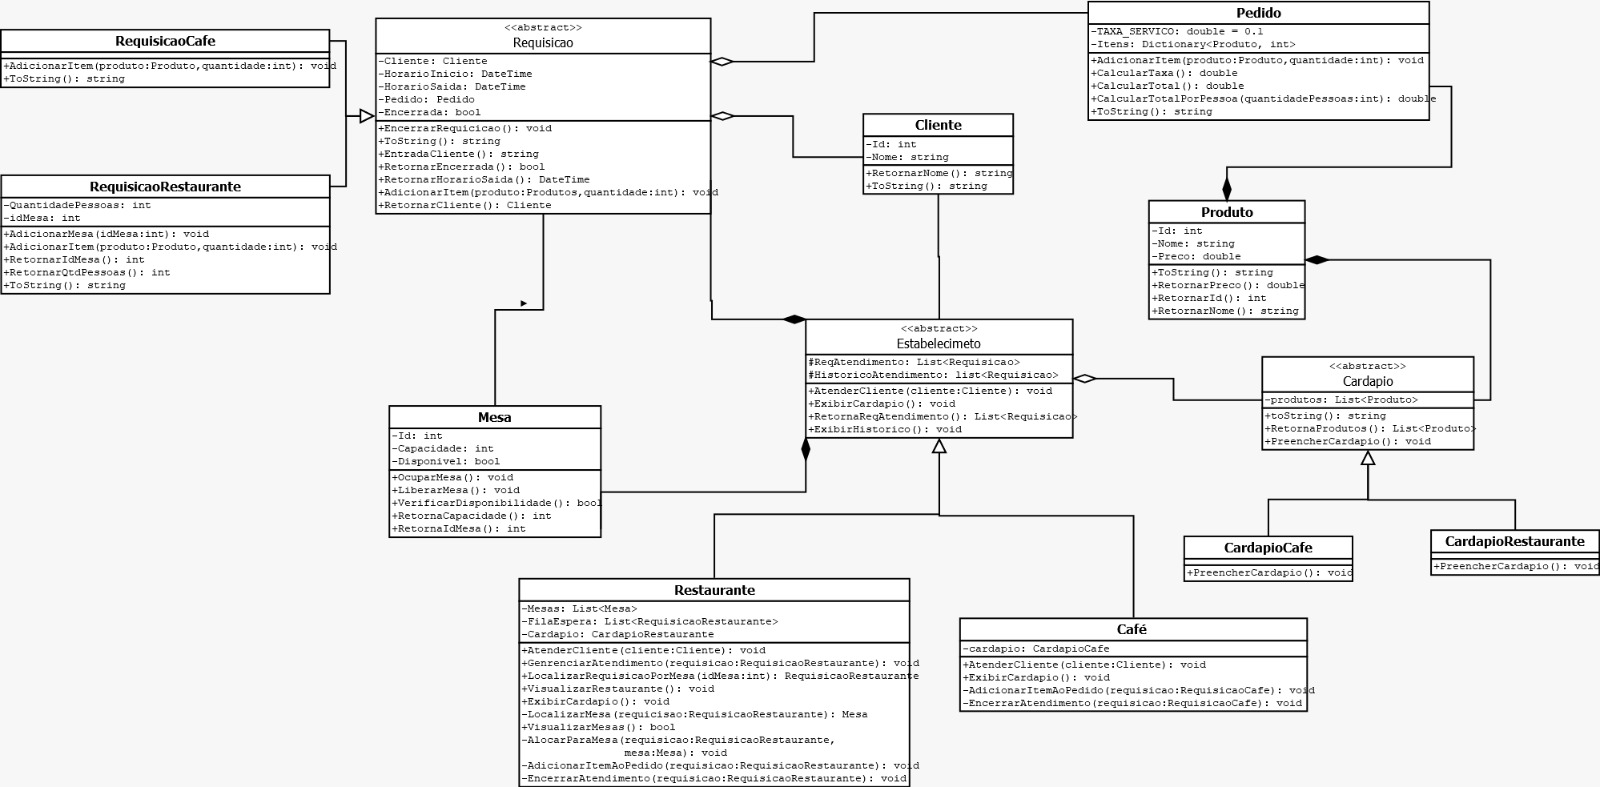
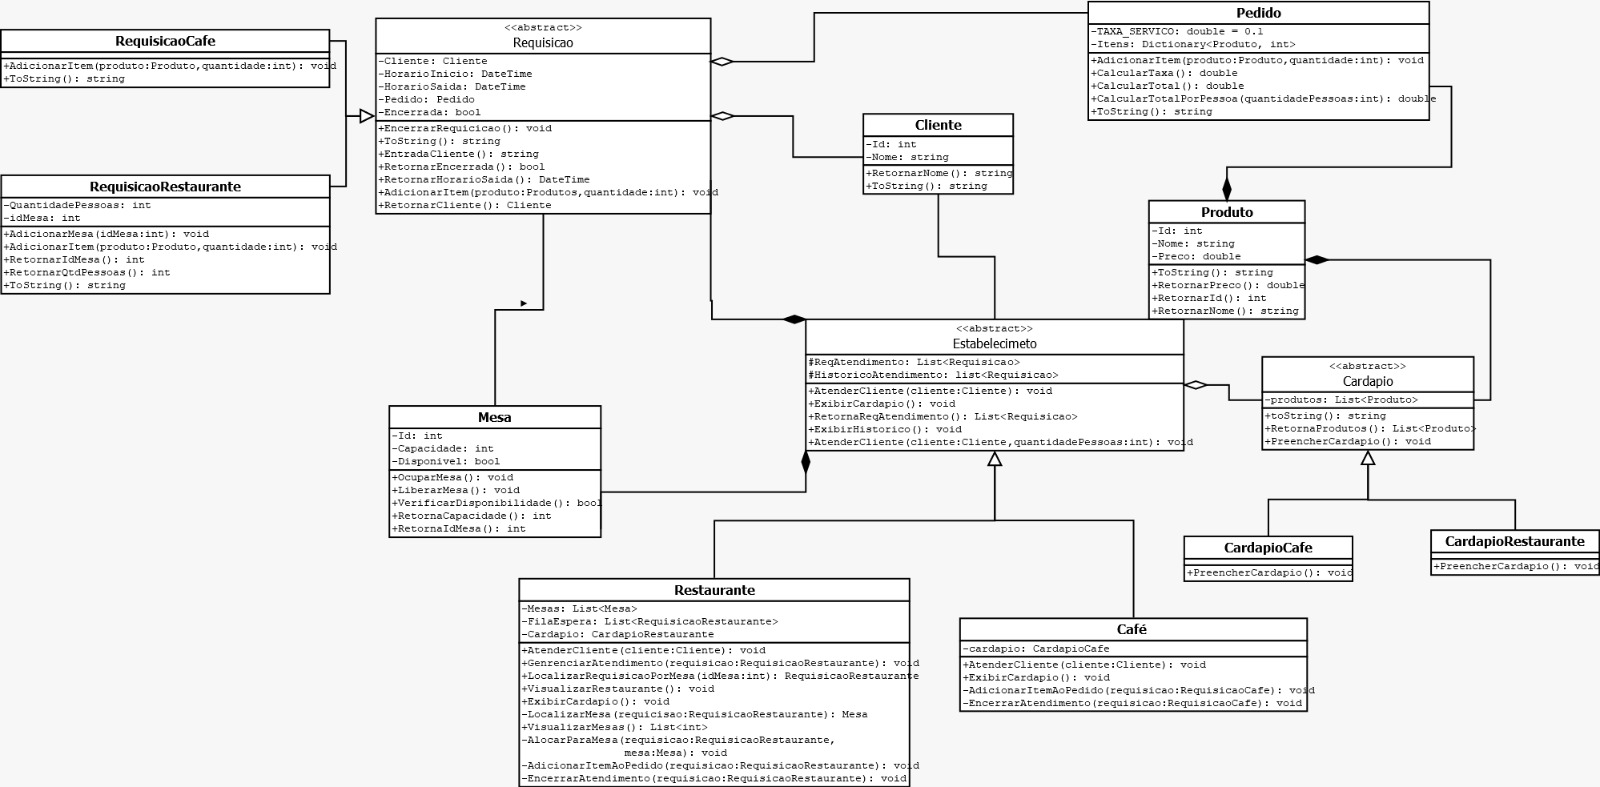
tratamento de erros e uml final

diff --git a/codigo/Program.cs b/codigo/Program.cs
@@ -54,43 +54,83 @@ namespace runcode_poo.codigo
                                 switch (opcaoRestaurante)
                                 {
                                     case (int)OpcaoMenuRestaurante.AtenderCliente:
+
                                         Console.Write("Digite o nome do cliente: ");
                                         string nomeCliente = Console.ReadLine();
                                         Cliente novoCliente = new Cliente(clienteId++, nomeCliente);
-                                        try
-                                        {
-                                            restaurante.AtenderCliente(novoCliente);
-                                        }
-                                        catch (Exception ex)
-                                        {
-                                            Console.WriteLine($"Erro ao atender cliente: {ex.Message}");
-                                        }
-                                        break;
-                                    case (int)OpcaoMenuRestaurante.AtenderMesa:
-                                        bool temMesas = restaurante.VisualizarMesas();
-                                        if (temMesas)
+
+                                        int quantidadePessoas = 0;
+                                        bool quantidadeValida = false;
+                                        while (!quantidadeValida)
                                         {
                                             try
                                             {
-                                                Console.WriteLine("Digite o ID da mesa para atendimento:");
-                                                int idMesa = int.Parse(Console.ReadLine());
-                                                RequisicaoRestaurante requisicao = restaurante.LocalizarRequisicaoPorMesa(idMesa);
-                                                if (requisicao != null)
+                                                Console.Write("Quantidade de pessoas para a mesa: ");
+                                                quantidadePessoas = int.Parse(Console.ReadLine());
+
+                                                if (quantidadePessoas > 8 || quantidadePessoas <= 0)
                                                 {
-                                                    restaurante.GerenciarAtendimento(requisicao);
+                                                    throw new ArgumentOutOfRangeException(null, "A quantidade de pessoas deve ser entre 1 e 8.");
                                                 }
-                                                else
-                                                {
-                                                    Console.WriteLine("Mesa não encontrada ou não possui atendimento em andamento.");
-                                                }
+                                                quantidadeValida = true;
+                                            }
+                                            catch (ArgumentOutOfRangeException ex)
+                                            {
+                                                Console.ForegroundColor = ConsoleColor.Red;
+                                                Console.WriteLine($"Erro: {ex.Message}");
+                                                Console.ResetColor();
                                             }
                                             catch (FormatException)
                                             {
-                                                Console.WriteLine("Por favor, digite um número válido para o ID da mesa.");
-                                            }
-                                            catch (Exception ex)
+                                                Console.WriteLine("Formato inválido. Por favor, insira um número inteiro.");
+                                            }               
+                                        }
+                                        restaurante.AtenderCliente(novoCliente, quantidadePessoas);
+
+                                        break;
+                                    case (int)OpcaoMenuRestaurante.AtenderMesa:
+                                        List<int> mesasEmAtendimento = restaurante.VisualizarMesas();
+                                        if (mesasEmAtendimento.Count > 0)
+                                        {
+                                            while (true)
                                             {
-                                                Console.WriteLine($"Ocorreu um erro: {ex.Message}");
+                                                try
+                                                {
+                                                    Console.WriteLine("Digite o ID da mesa para atendimento (ou 0 para sair):");
+                                                    int idMesa = int.Parse(Console.ReadLine());
+
+                                                    if (idMesa == 0)
+                                                    {
+                                                        Console.WriteLine("Saindo do atendimento de mesas.");
+                                                        break;
+                                                    }
+
+                                                    if (!mesasEmAtendimento.Contains(idMesa))
+                                                    {
+                                                        throw new MesaNaoEmAtendimentoException("Mesa não encontrada ou não possui atendimento em andamento.");
+                                                    }
+
+                                                    RequisicaoRestaurante requisicao = restaurante.LocalizarRequisicaoPorMesa(idMesa);
+                                                    if (requisicao != null)
+                                                    {
+                                                        restaurante.GerenciarAtendimento(requisicao);
+                                                        break;
+                                                    }
+                                                    else
+                                                    {
+                                                        Console.WriteLine("Essa mesa não possui atendimento em andamento.");
+                                                    }
+                                                }
+                                                catch (MesaNaoEmAtendimentoException ex)
+                                                {
+                                                    Console.ForegroundColor = ConsoleColor.Red;
+                                                    Console.WriteLine($"Erro: {ex.Message}");
+                                                    Console.ResetColor();
+                                                }
+                                                catch (FormatException)
+                                                {
+                                                    Console.WriteLine("Por favor, digite um número válido para o ID da mesa.");
+                                                }
                                             }
                                         }
                                         break;
@@ -111,6 +151,7 @@ namespace runcode_poo.codigo
                             }
                             break;
                         case (int)OpcaoGeral.Cafe:
+
                             bool sairMenuCafe = false;
                             while (!sairMenuCafe)
                             {
@@ -134,21 +175,17 @@ namespace runcode_poo.codigo
                                         Console.Write("Digite o nome do cliente:");
                                         string nomeClienteCafe = Console.ReadLine();
                                         Cliente novoClienteCafe = new Cliente(clienteId++, nomeClienteCafe);
-                                        try
-                                        {
-                                            cafe.AtenderCliente(novoClienteCafe);
-                                        }
-                                        catch (Exception ex)
-                                        {
-                                            Console.WriteLine($"Erro ao atender cliente: {ex.Message}");
-                                        }
+                                        cafe.AtenderCliente(novoClienteCafe);                                     
                                         break;
+
                                     case (int)OpcaoMenuCafe.ExibirHistorico:
                                         cafe.ExibirHistorico();
                                         break;
+
                                     case (int)OpcaoMenuCafe.Voltar:
                                         sairMenuCafe = true;
                                         break;
+
                                     default:
                                         Console.WriteLine("Opção inválida.");
                                         break;
@@ -164,11 +201,7 @@ namespace runcode_poo.codigo
                 }
                 catch (FormatException)
                 {
-                    Console.WriteLine("Por favor, digite um número válido para a opção.");
-                }
-                catch (Exception ex)
-                {
-                    Console.WriteLine($"Ocorreu um erro: {ex.Message}");
+                    Console.WriteLine("Por favor, digite um número de 1 a 3.");
                 }
             }
         }
@@ -190,5 +223,11 @@ namespace runcode_poo.codigo
             Console.WriteLine();
             Console.ResetColor();
         }
+
+        public class MesaNaoEmAtendimentoException : Exception
+        {
+            public MesaNaoEmAtendimentoException(string message) : base(message) { }
+        }
+
     }
 }

diff --git a/codigo/Restaurante.cs b/codigo/Restaurante.cs
@@ -79,11 +79,12 @@ namespace runcode_poo.codigo
         /// Exibe as mesas que estão em atendimento.
         /// </summary>
         /// <returns>True se houver mesas em atendimento, caso contrário, false.</returns>
-        public bool VisualizarMesas()
+        public List<int> VisualizarMesas()
         {
             Console.WriteLine("============ MESAS EM ATENDIMENTO ============");
             Console.WriteLine("==============================================");
             bool temMesasEmAtendimento = false;
+            List<int> mesasEmAtendimento = new List<int>();
 
             if (this.Mesas.Count > 0)
             {
@@ -95,6 +96,7 @@ namespace runcode_poo.codigo
                     if (!disponibilidade)
                     {
                         temMesasEmAtendimento = true;
+                        mesasEmAtendimento.Add(idMesa);
                         Console.Write($"Mesa {idMesa} - ");
                         Console.ForegroundColor = ConsoleColor.Red;
                         Console.Write("Em andamento");
@@ -109,13 +111,13 @@ namespace runcode_poo.codigo
                 Console.WriteLine("Sem mesas para atendimento!");
                 Console.WriteLine("Pressione qualquer tecla para voltar ao menu...");
                 Console.ReadKey();
-                return false;
             }
 
             Console.WriteLine("==============================================");
             Console.WriteLine();
-            return true;
+            return mesasEmAtendimento;
         }
+
 
         /// <summary>
         /// Exibe as mesas e a fila de espera do restaurante.
@@ -176,20 +178,8 @@ namespace runcode_poo.codigo
         /// Atende um cliente específico.
         /// </summary>
         /// <param name="cliente">O cliente a ser atendido.</param>
-        public override void AtenderCliente(Cliente cliente)
+        public override void AtenderCliente(Cliente cliente, int quantidadePessoas)
         {
-            int quantidadePessoas;
-            do
-            {
-                Console.Write("Quantidade de pessoas para a mesa: ");
-                quantidadePessoas = int.Parse(Console.ReadLine());
-                if (quantidadePessoas > 8)
-                {
-                    Console.WriteLine($"Não existem mesas com capacidade para {quantidadePessoas} pessoas. Por favor, insira um valor até 8.");
-                }
-            } while (quantidadePessoas > 8);
-
-
 
             RequisicaoRestaurante requisicao = new RequisicaoRestaurante(cliente, quantidadePessoas);
             Mesa mesa = LocalizarMesa(requisicao);

diff --git a/codigo/Estabelecimento.cs b/codigo/Estabelecimento.cs
@@ -23,10 +23,23 @@ namespace runcode_poo.codigo
         protected List<Requisicao> HistoricoAtendimento { get; set; } = new List<Requisicao>();
 
         /// <summary>
-        /// Método abstrato para atender um cliente.
+        /// Método para atender cliente com um parâmetro.
         /// </summary>
         /// <param name="cliente">O cliente a ser atendido.</param>
-        public abstract void AtenderCliente(Cliente cliente);
+        public virtual void AtenderCliente(Cliente cliente)
+        {
+            throw new NotImplementedException("Este método não foi implementado.");
+        }
+
+        /// <summary>
+        /// Método virtual para atender cliente com dois parâmetros.
+        /// </summary>
+        /// <param name="cliente">O cliente a ser atendido.</param>
+        /// <param name="quantidadePessoas">A quantidade de pessoas a serem atendidas.</param>
+        public virtual void AtenderCliente(Cliente cliente, int quantidadePessoas)
+        {
+            throw new NotImplementedException("Este método não foi implementado.");
+        }
 
         /// <summary>
         /// Método abstrato para exibir o cardápio do estabelecimento.

diff --git a/codigo/Produto.cs b/codigo/Produto.cs
@@ -11,7 +11,6 @@ namespace runcode_poo.codigo
     /// </summary>
     public class Produto
     {
-        // Propriedades privadas do produto
         private int Id { get; set; }
         private string Nome { get; set; }
         private double Preco { get; set; }
